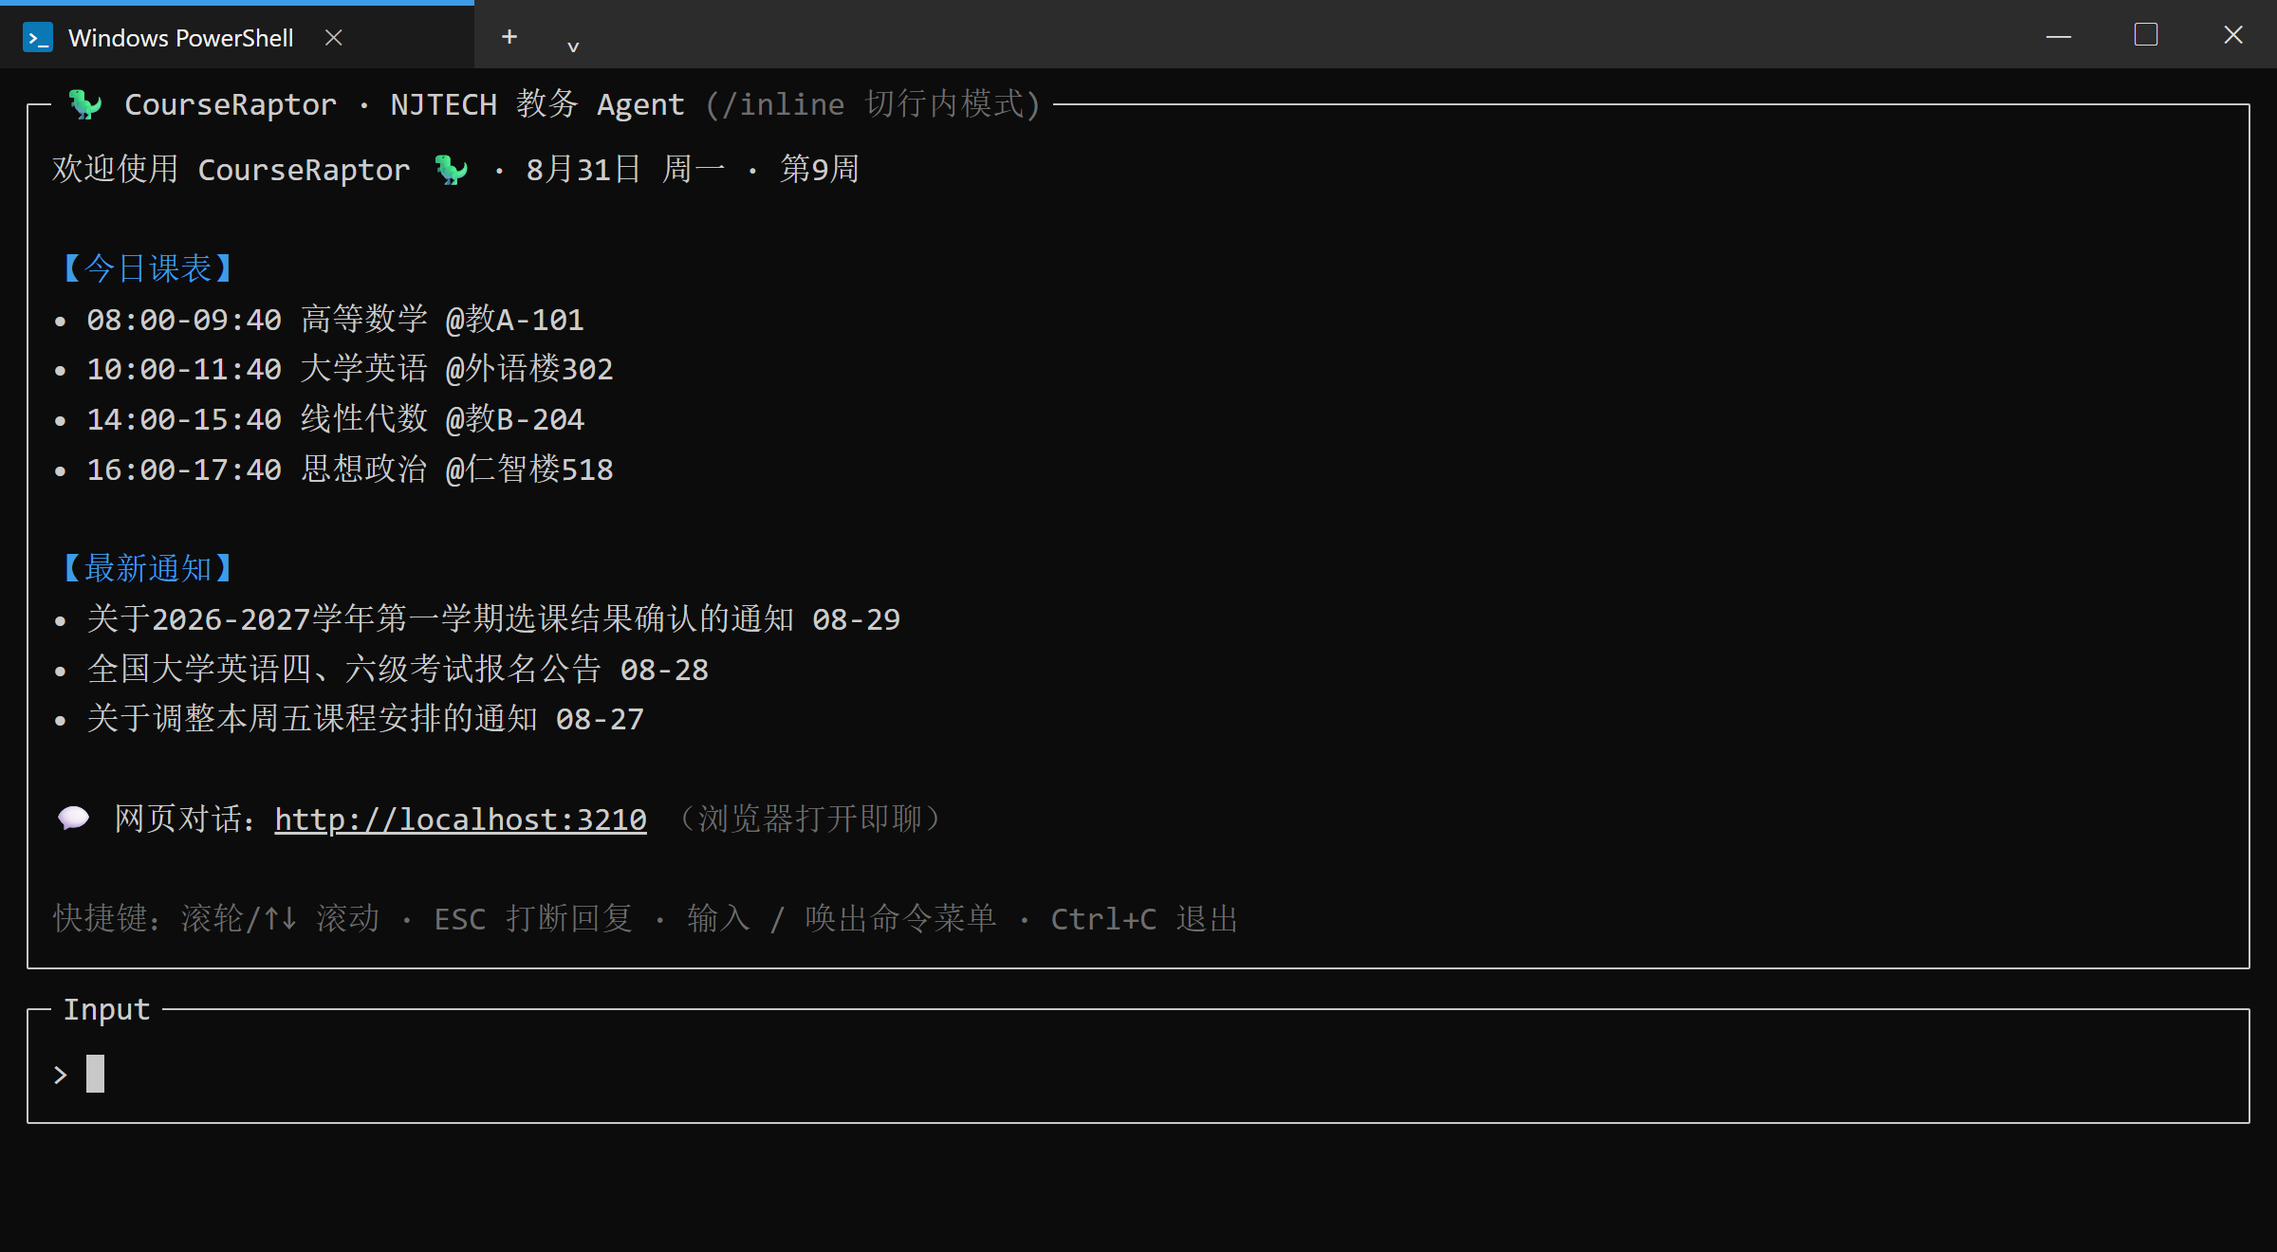
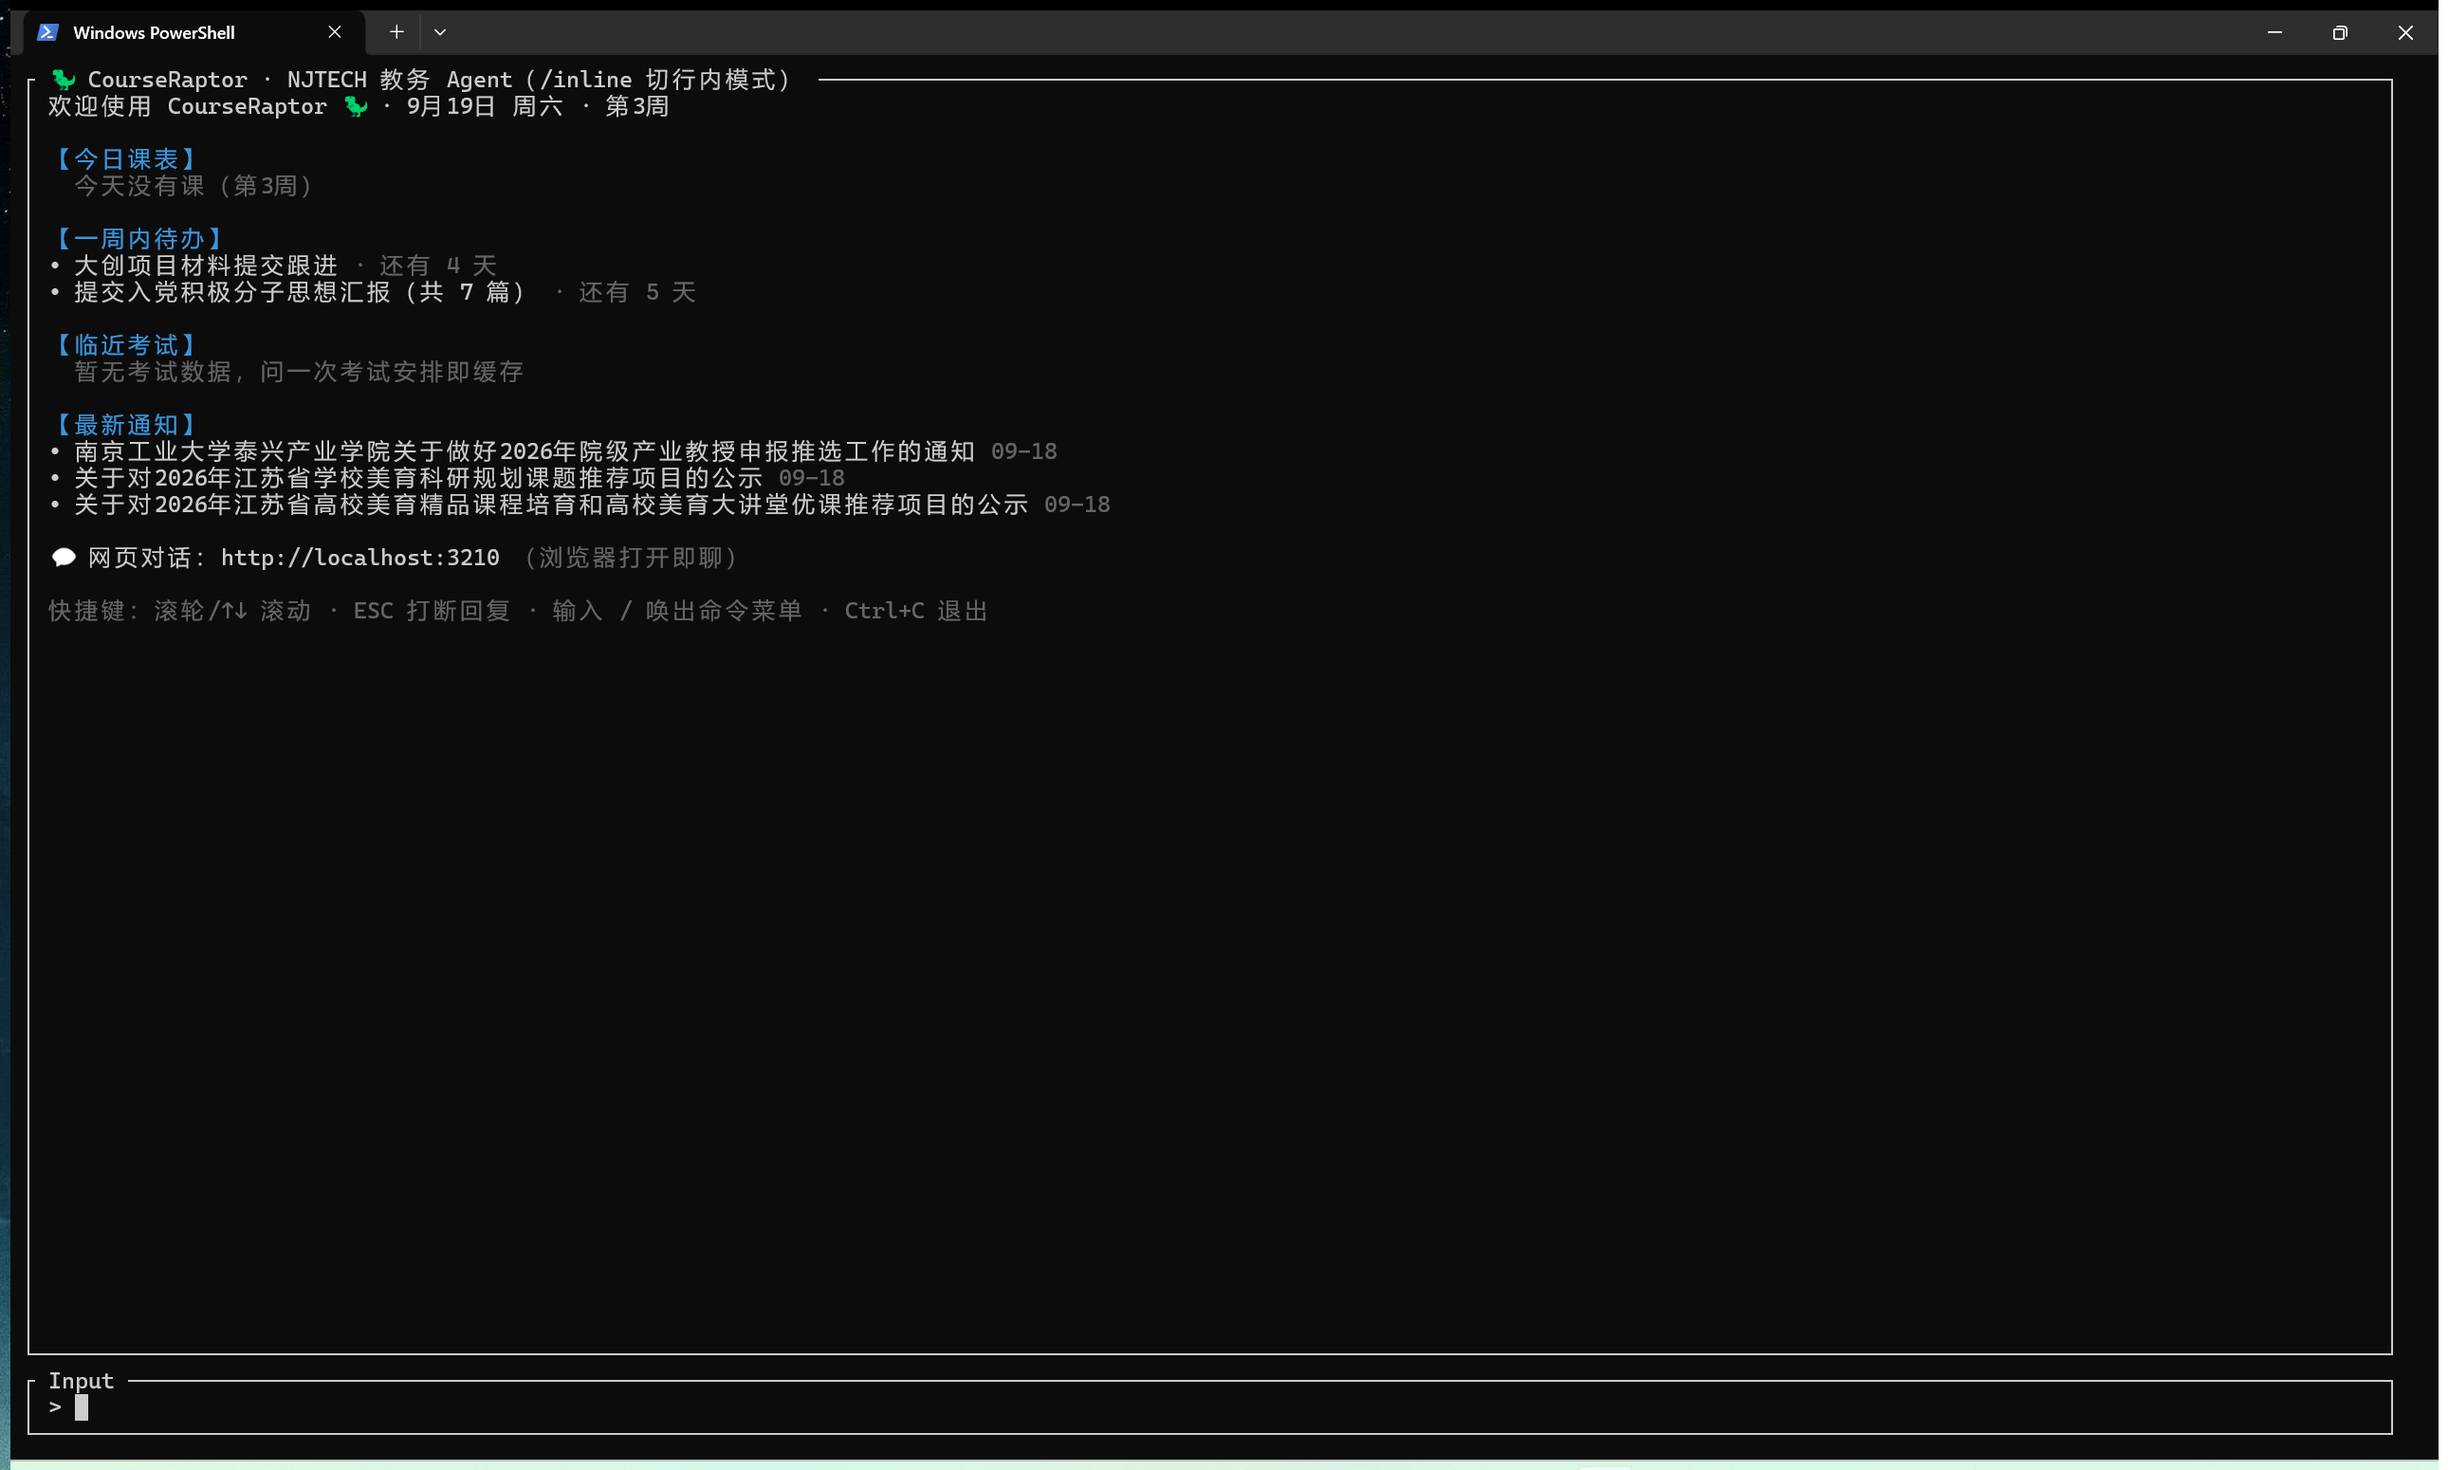
docs(readme): 界面预览截图换新：网页版红头档案+功能大厅、TUI 最新欢迎面板
- screenshot-web.png 重截：聊天区两轮问答（教务通知/今日简报）带思考卡片与
  工具调用链（get_news/get_time/get_schedule/manage_todos），右侧功能大厅
  开着「今日日程」面板；离线演示数据，图注与 alt 已标注
- screenshot-tui.png 重截：最新欢迎面板（今日课表/临近考试/最新通知分节
  + 网页端入口），实机最新代码捕获
- preview-readme 图片白名单补上这两张主图，npm run preview:readme 不再 404

diff --git a/README.md b/README.md
@@ -116,9 +116,9 @@ Agent 默认可调用 **30 个工具**，覆盖十大能力线。完整参数表
 <div align="center">
 
 **网页版 · 红头档案 UI**  
-*聊天区展示思考草稿卡片、工具调用链、教务通知回答；右侧功能大厅可推出待办/知识库/番茄钟等面板*
+*聊天区展示思考草稿卡片、工具调用链、通知与今日简报回答；右侧功能大厅推出「今日日程」面板，待办、知识库、番茄钟亦可唤出（图为离线演示数据）*
 
-<img src="docs/screenshot-web.png" width="880" alt="CourseRaptor 网页对话界面" />
+<img src="docs/screenshot-web.png" width="880" alt="CourseRaptor 网页对话界面（虚构演示数据）" />
 
 **终端版 · TUI 欢迎面板**  
 *启动即展示今日课表、临近考试、最新通知；支持卡片/行内双模式、斜杠命令菜单*
